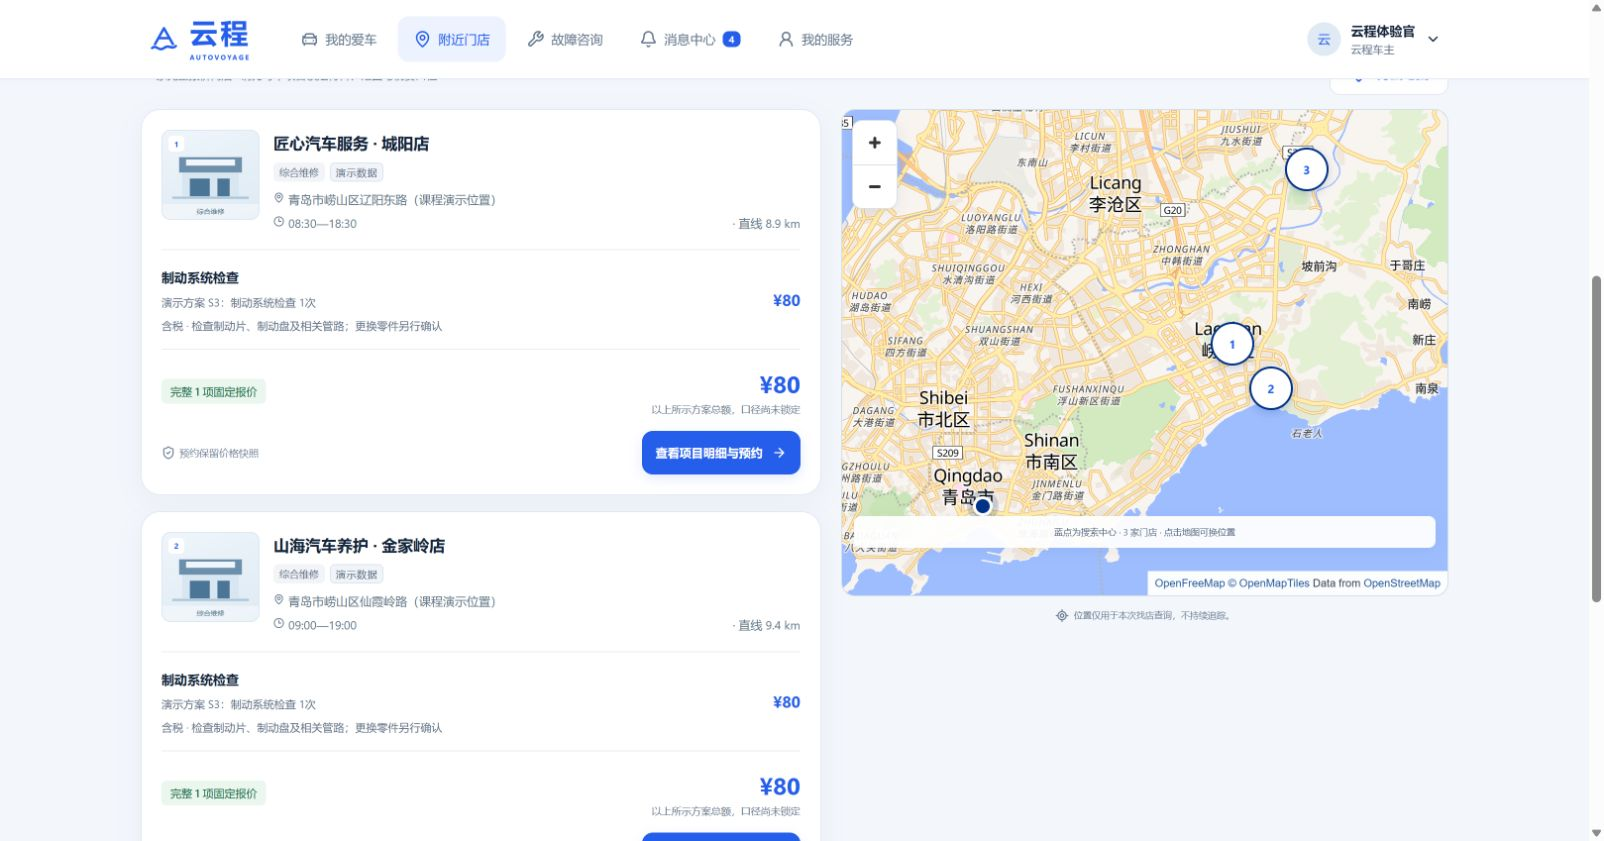
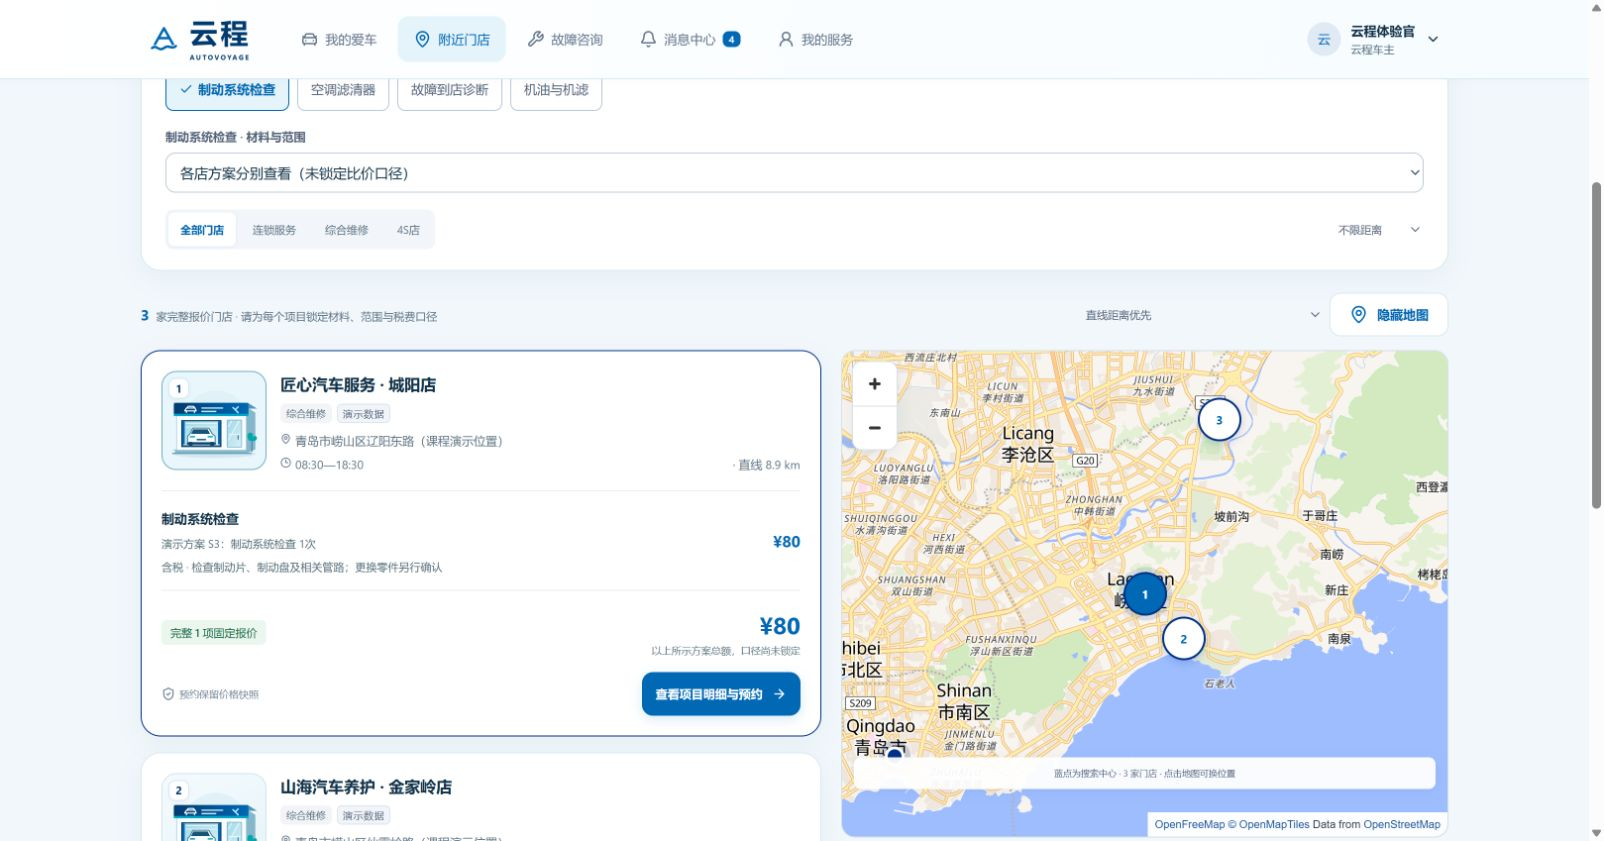
Record V0.4 cloud deployment and verified ocean blue screenshots

diff --git a/README.md b/README.md
@@ -6,11 +6,9 @@ React + TypeScript 车主 H5 / 管理 Web，Node.js + Fastify 统一 API，Postg
 
 课程预览已部署：[打开云程](http://117.72.124.241:58083/)。车主、门店、专家和平台账号的独立口令保存在部署者本机受控文件中，不提供公开通用密码。实际验收范围见 [验证记录](docs/verification.md)。
 
-![云程车主首页：原创汽车插画、数字车库与养护计划](docs/images/owner-dashboard.png)
+![V0.4 公网车主首页：Cybertruck 灵感插画、海洋蓝数字车库与养护计划](docs/images/owner-dashboard.png)
 
-截图使用课程演示车辆。当前线上截图为 V0.3；V0.4 新版预览见下图。插画外观仅为示意，历史素材许可见 [图片来源](docs/image-attribution.md)。
-
-![V0.4 本地预览：Cybertruck 灵感插画与海洋蓝主题](docs/images/ocean-blue-preview.png)
+截图来自当前 V0.4 公网版本，使用课程演示车辆。插画外观仅为示意，历史素材许可见 [图片来源](docs/image-attribution.md)。
 
 海洋蓝取自中国海洋大学海洋文化的设计灵感，色值为项目自定配色。
 
@@ -23,7 +21,7 @@ React + TypeScript 车主 H5 / 管理 Web，Node.js + Fastify 统一 API，Postg
 | 门店专家 | 分配范围内的故障资料、补充信息、建议与费用预估 |
 | 平台管理员 | 标准项目、车型保养规则与资料来源、门店审核及审计记录 |
 
-V0.4 代码 `44d5c73` 已完成海洋蓝主题、Cybertruck 灵感皮卡和共享门店服务站 SVG；本地完整检查通过，部署包已准备，等待 Portainer 恢复登录后发布。当前线上仍为 V0.3，Web `a0a690c`、API `2e6107d`，已确认 OpenFreeMap 道路、三家门店、选店、显隐及手机布局。行驶证沿用此前完成的 6 项真实 PostgreSQL 测试与云端真实 AI 合成样本识别；详细范围见 [验证记录](docs/verification.md)。文档提交不触发 Portainer 自动发布。
+2026-11-04 已发布 V0.4：Web `44d5c73`，API 保持 `2e6107d`，两个容器均为 `healthy`。公网确认 Cybertruck 灵感插画、海洋蓝主题、三家门店的新服务站 SVG、真实底图及选店联动；375×812 首页和门店页均无横向溢出。原两辆车和海豹 1,680 km 保持原值。行驶证沿用此前完成的 6 项真实 PostgreSQL 测试与云端真实 AI 合成样本识别；详细范围见 [验证记录](docs/verification.md)。本次仅替换 Web 镜像，文档提交不触发 Portainer 自动发布。
 
 课程数据包括演示车型、规则、门店、价格与记录；当前车型目录包含迈腾和海豹。真实车型手册、真实证件准确率、手机真机兼容性和压力测试仍需独立验证。
 
